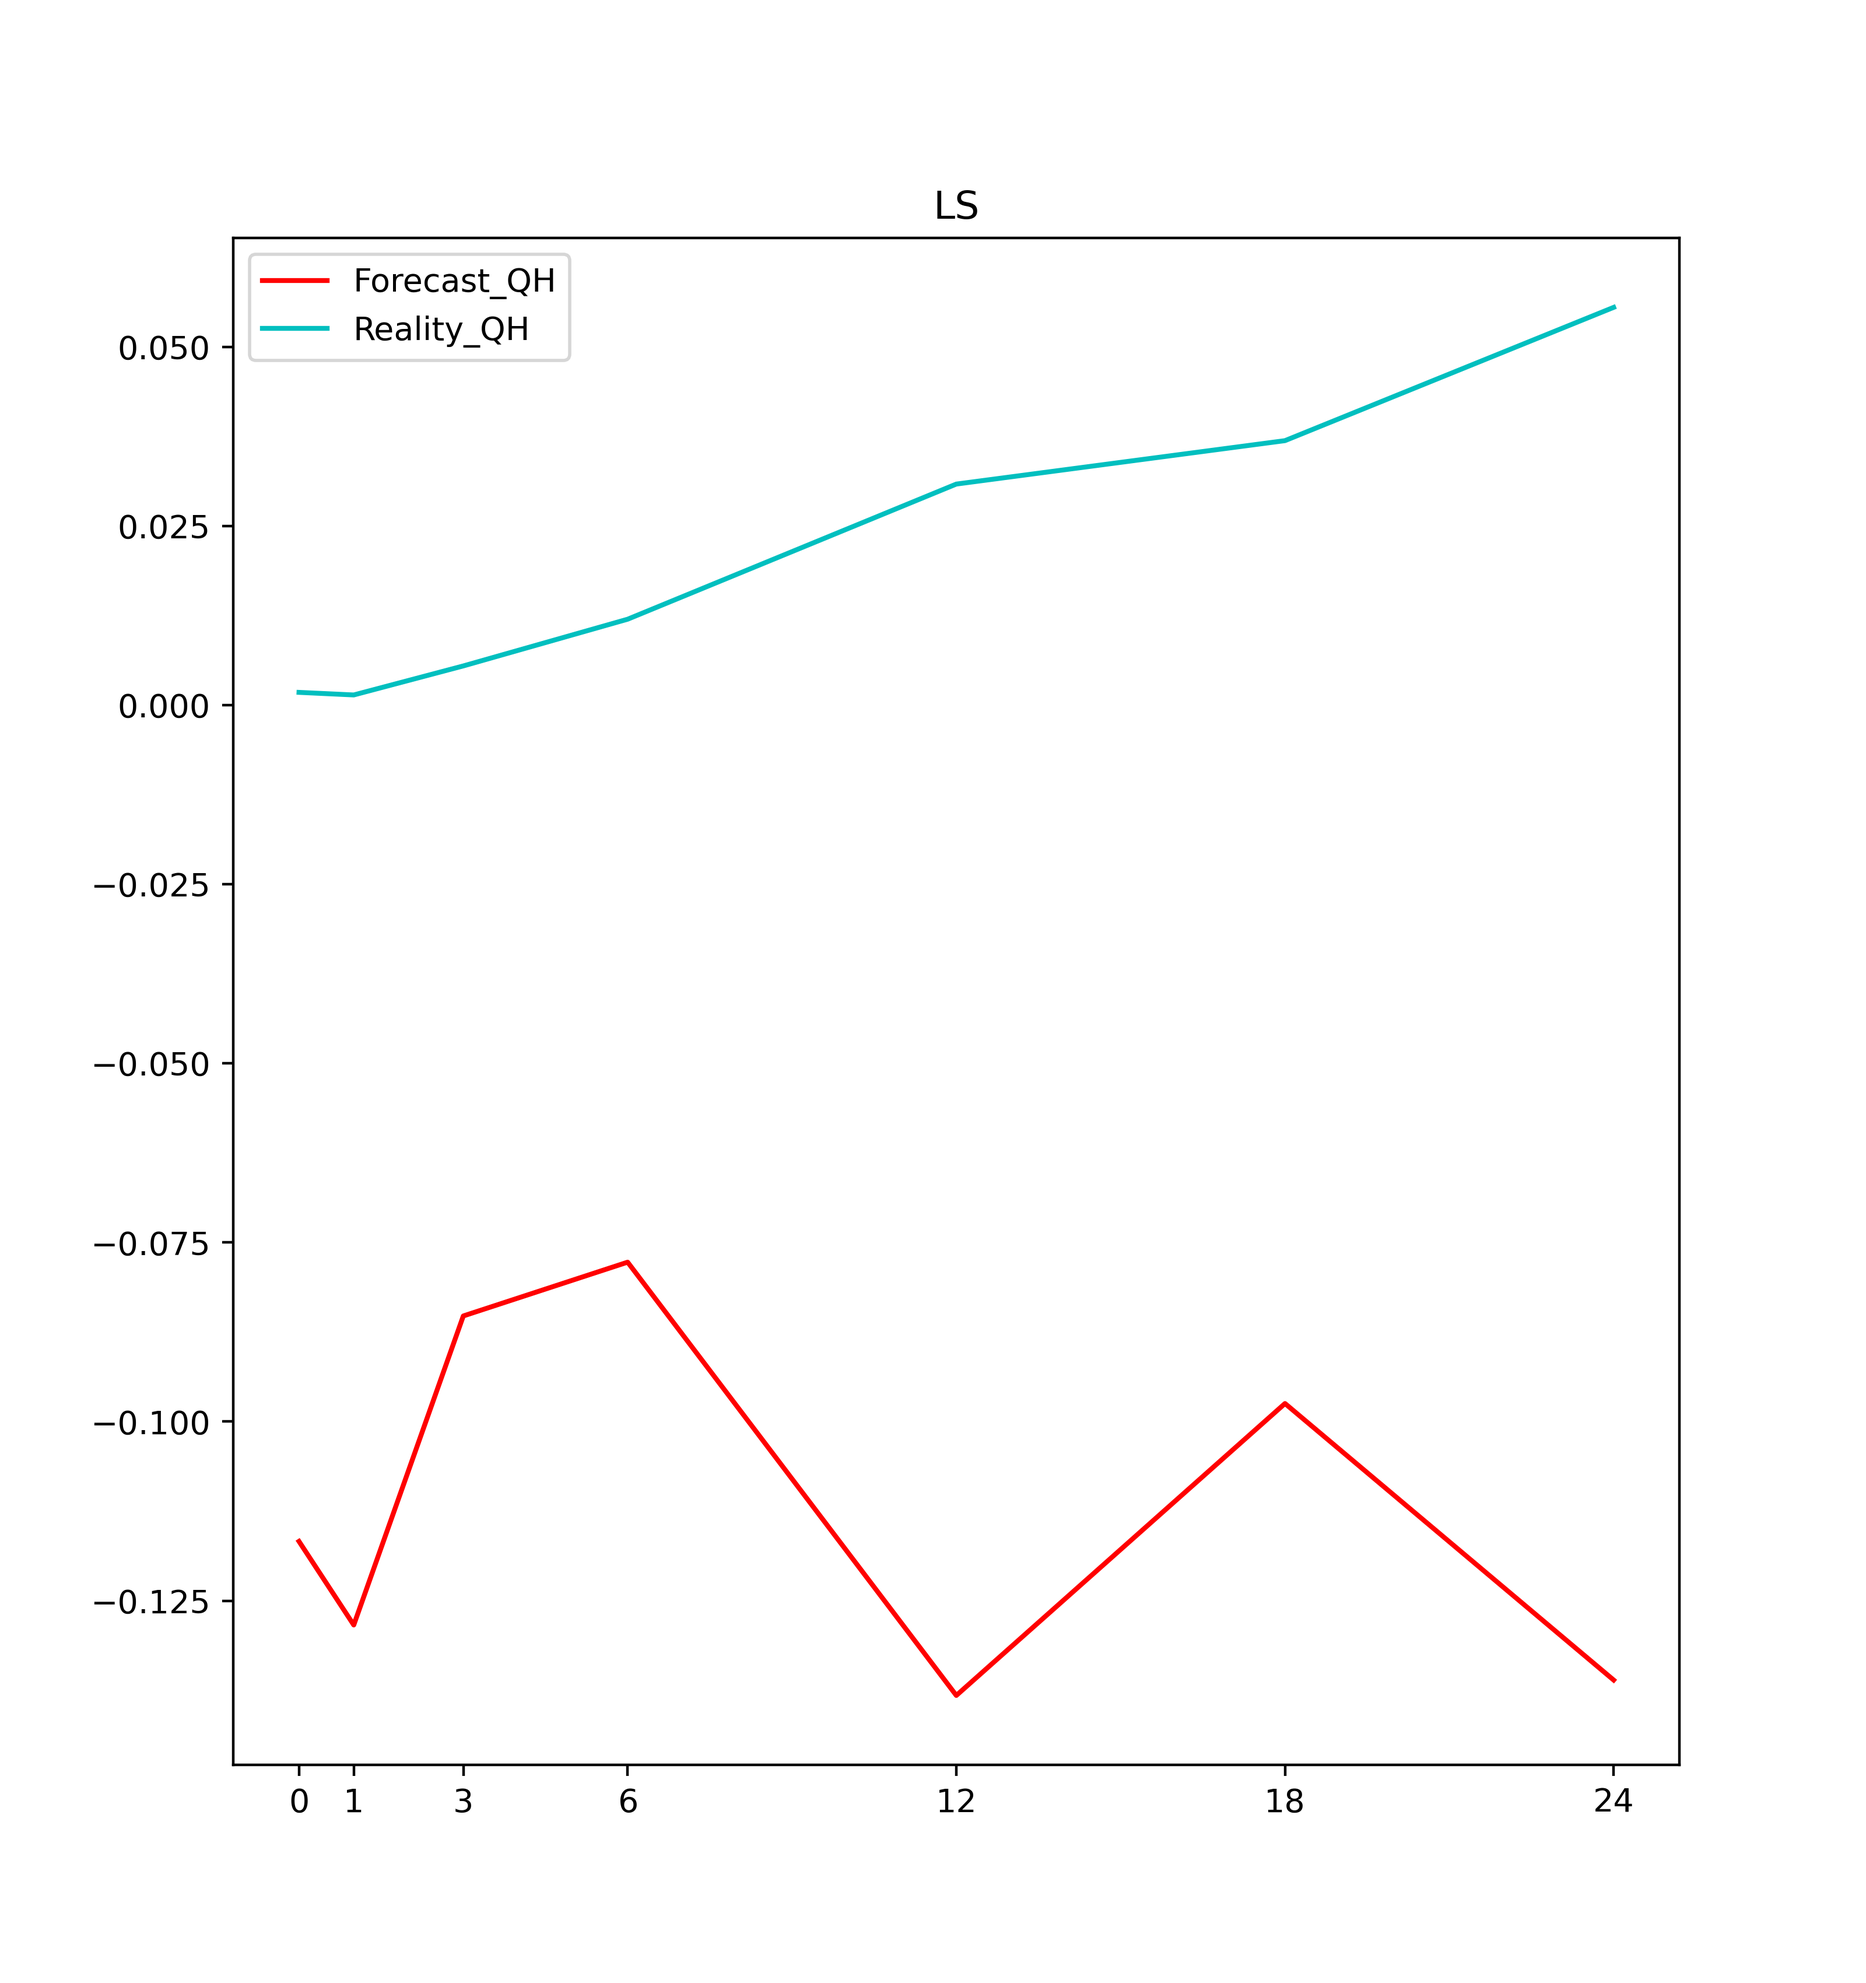
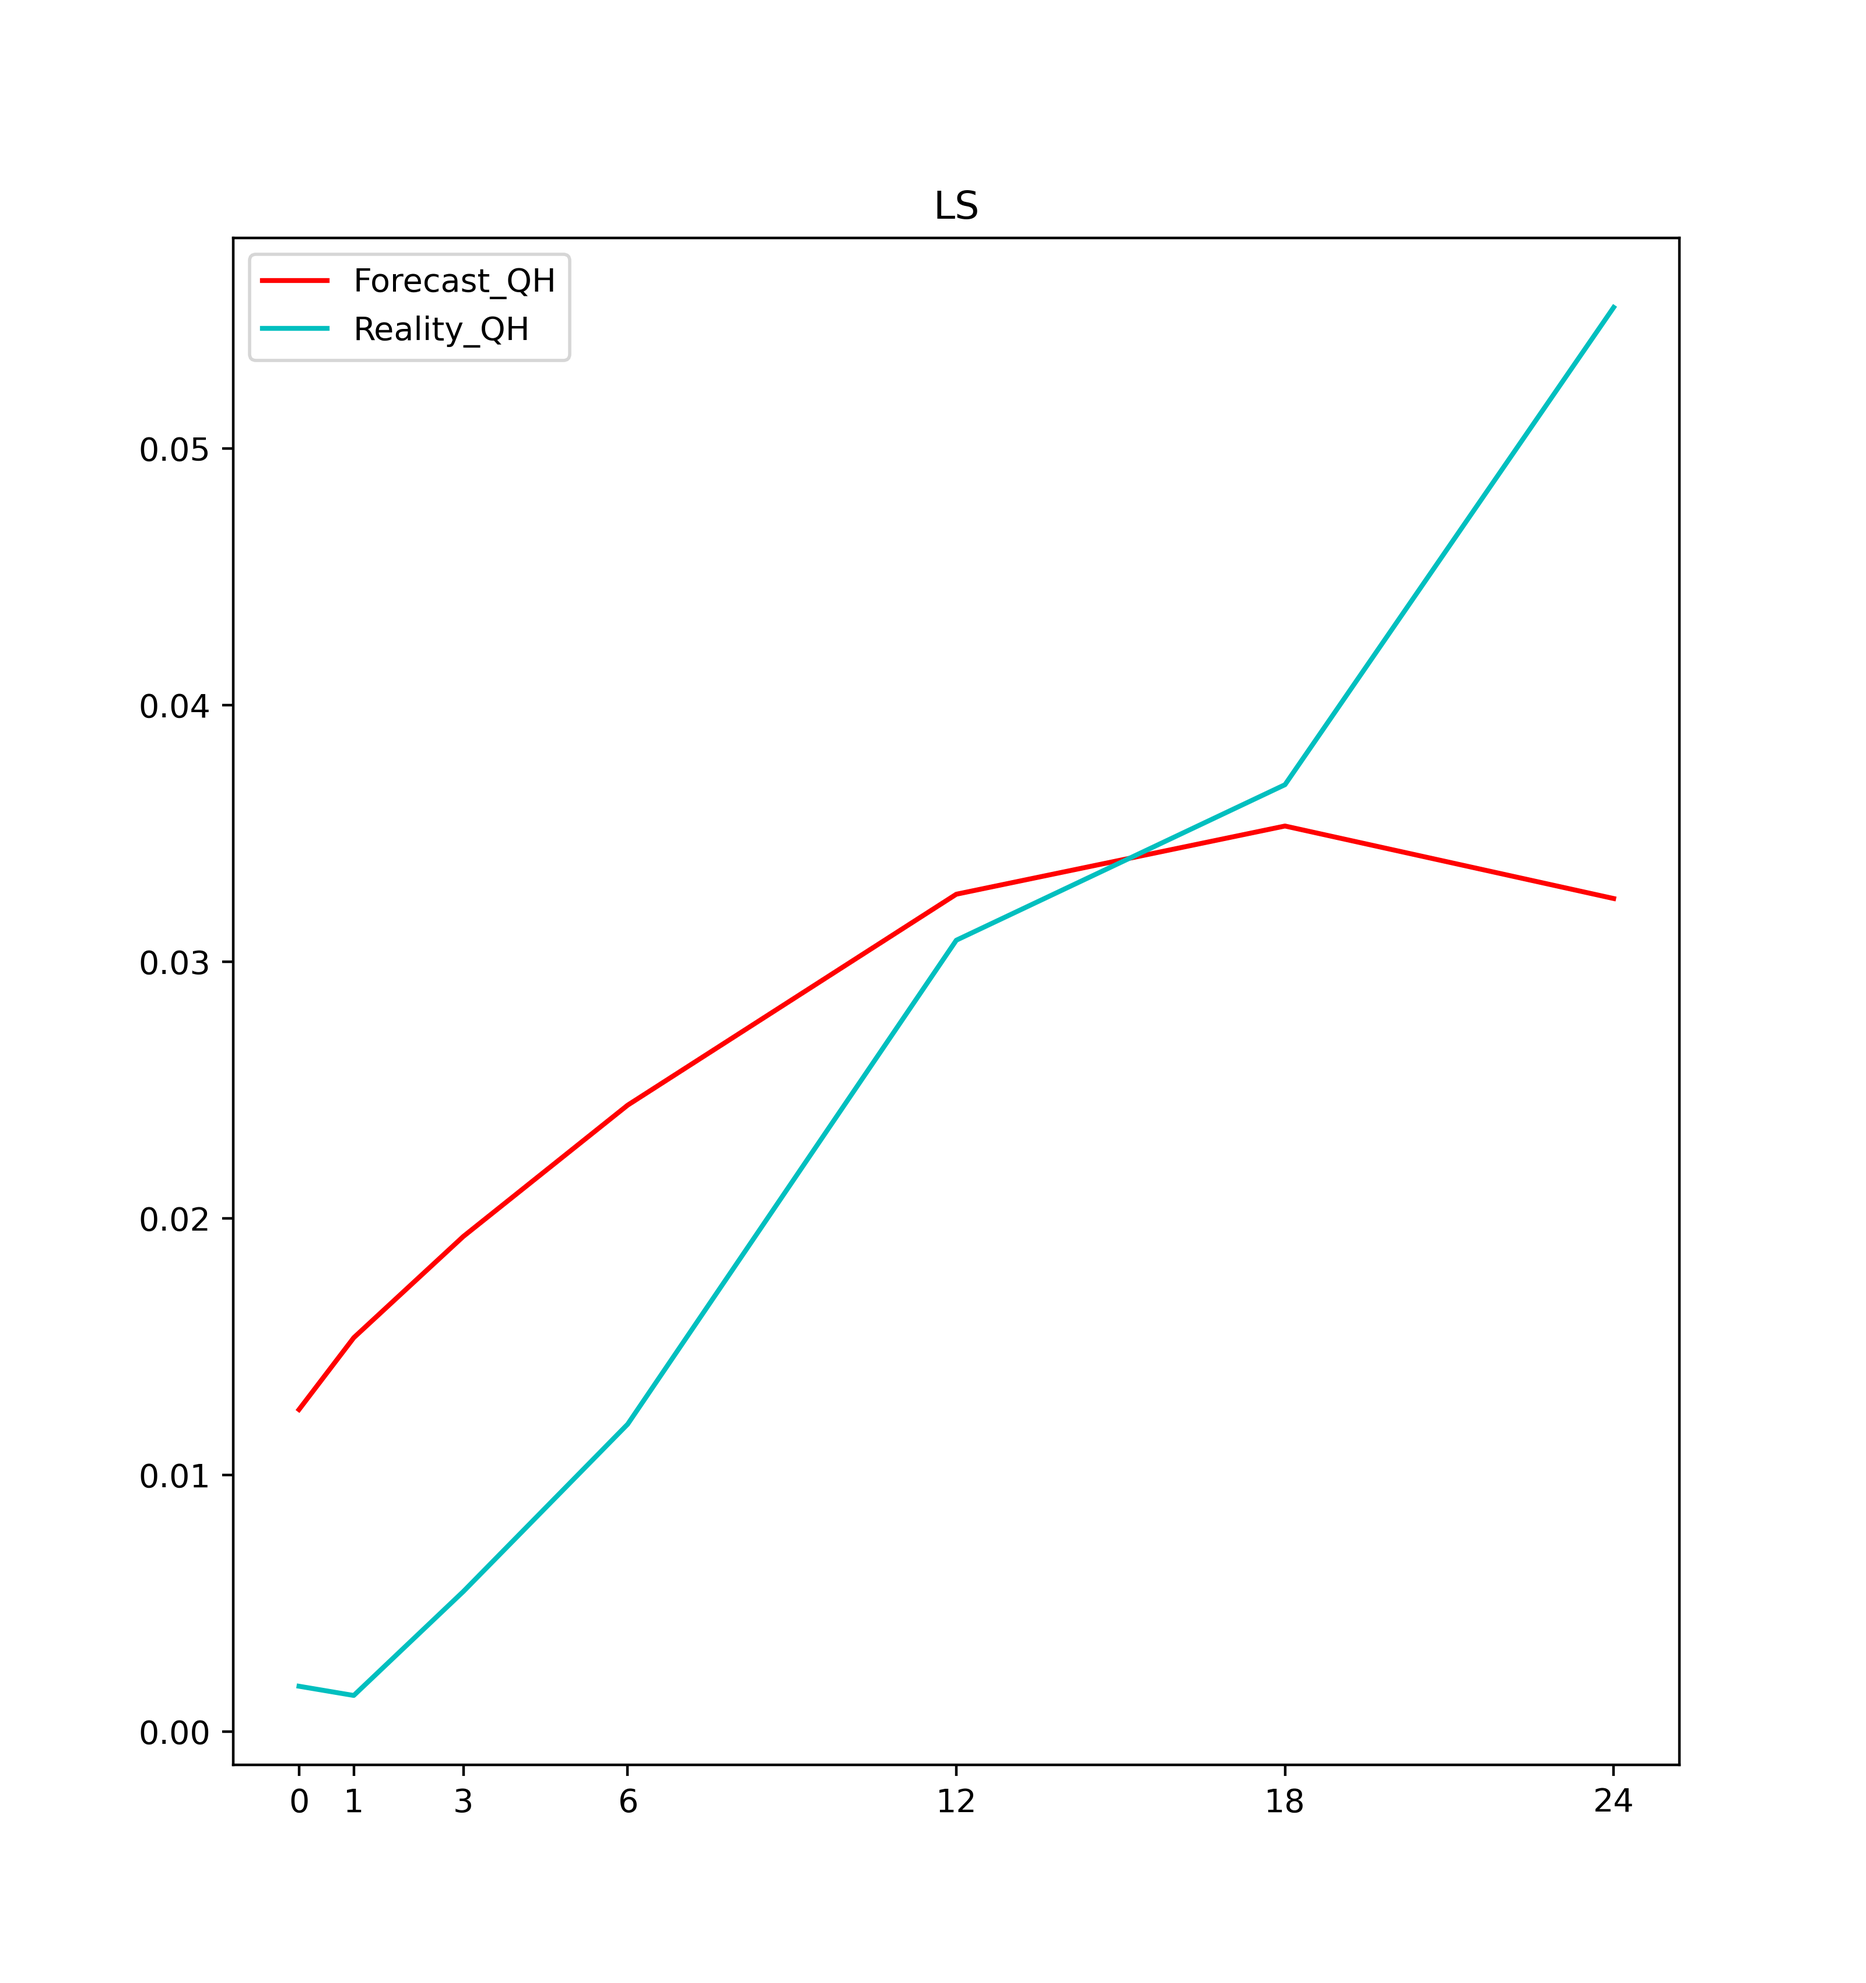
MAML

diff --git a/Prediction.py b/Prediction.py
@@ -70,12 +70,13 @@ for file_name in nature_files:
     销毁网络实例
     """
     datas = pd.read_csv(file_name)
+    # print(datas)
     predict_data = High_Polymer_Material(datas)
     predict_dataloader = DataLoader(predict_data, batch_size=1, shuffle=False)
 
     file_name = os.path.split(file_name)[1]
     file_name = os.path.splitext(file_name)[0]
-    # print(f"{file_name}\n-------------------------------")
+    print(f"{file_name}\n-------------------------------")
     weight_file_name = 'Data/Nature_Weight/NN_{}.pth'.format(file_name)
 
     predictor = YanNet()
@@ -95,6 +96,7 @@ for file_name in nature_files:
     total_min_y:0.000302043
     """
     print_p = print_p*0.066217957+0.000302043
+    print(print_p)
 
     drawer(file_name, print_p)
 

diff --git a/main.py b/main.py
@@ -59,14 +59,14 @@ for i in range(0, len(nature_files)):
 参数统一存进字典arg中，传入Meta
 """
 
-learning_rate = 8*1e-2
-update_rate = 1*1e-3
-finetune_rate = 1*1e-4
-epochs = 1000
-learning_step = 1
+learning_rate = 2*1e-4
+update_rate = 5*1e-4
+finetune_rate = 8*1e-2
+epochs = 200
+learning_step = 4
 update_step = 1    #注意，外层循环的更新只能迭代一步
-finetune_step = 50
-ratio_train_test = 2
+finetune_step = 6
+ratio_train_test = 1
 
 arg = {'learning_rate': learning_rate, 'update_rate': update_rate, 'epochs': epochs, 'task_num': task_num,
        'learning_step': learning_step, 'update_step': update_step, 'ratio_train_test': ratio_train_test,

diff --git a/Leaner.py b/Leaner.py
@@ -12,7 +12,7 @@ class D1(nn.Module):
 
         self.d1 = nn.Sequential(OrderedDict([
             ('dense_1', nn.Linear(5, 5)),
-            ('relu', nn.ReLU())
+            ('sigmoid', nn.Sigmoid())
         ]))
 
     def forward(self, input):
@@ -26,7 +26,8 @@ class D2(nn.Module):
         super(D2, self).__init__()
 
         self.d2 = nn.Sequential(OrderedDict([
-            ('dense_2', nn.Linear(5, 1))
+            ('dense_2', nn.Linear(5, 1)),
+            ('relu', nn.ReLU())
         ]))
 
     def forward(self, input):

diff --git a/README.md b/README.md
@@ -4,4 +4,7 @@
 
 # 2022.3.22
 1.文件地址拼接形式不统一，Linux和(有效的)Windos形式混合了，但是能用
+2.效果和屎一样
 
+# 2022.3.23
+!.调了调参数，麻了，结果比较屎
